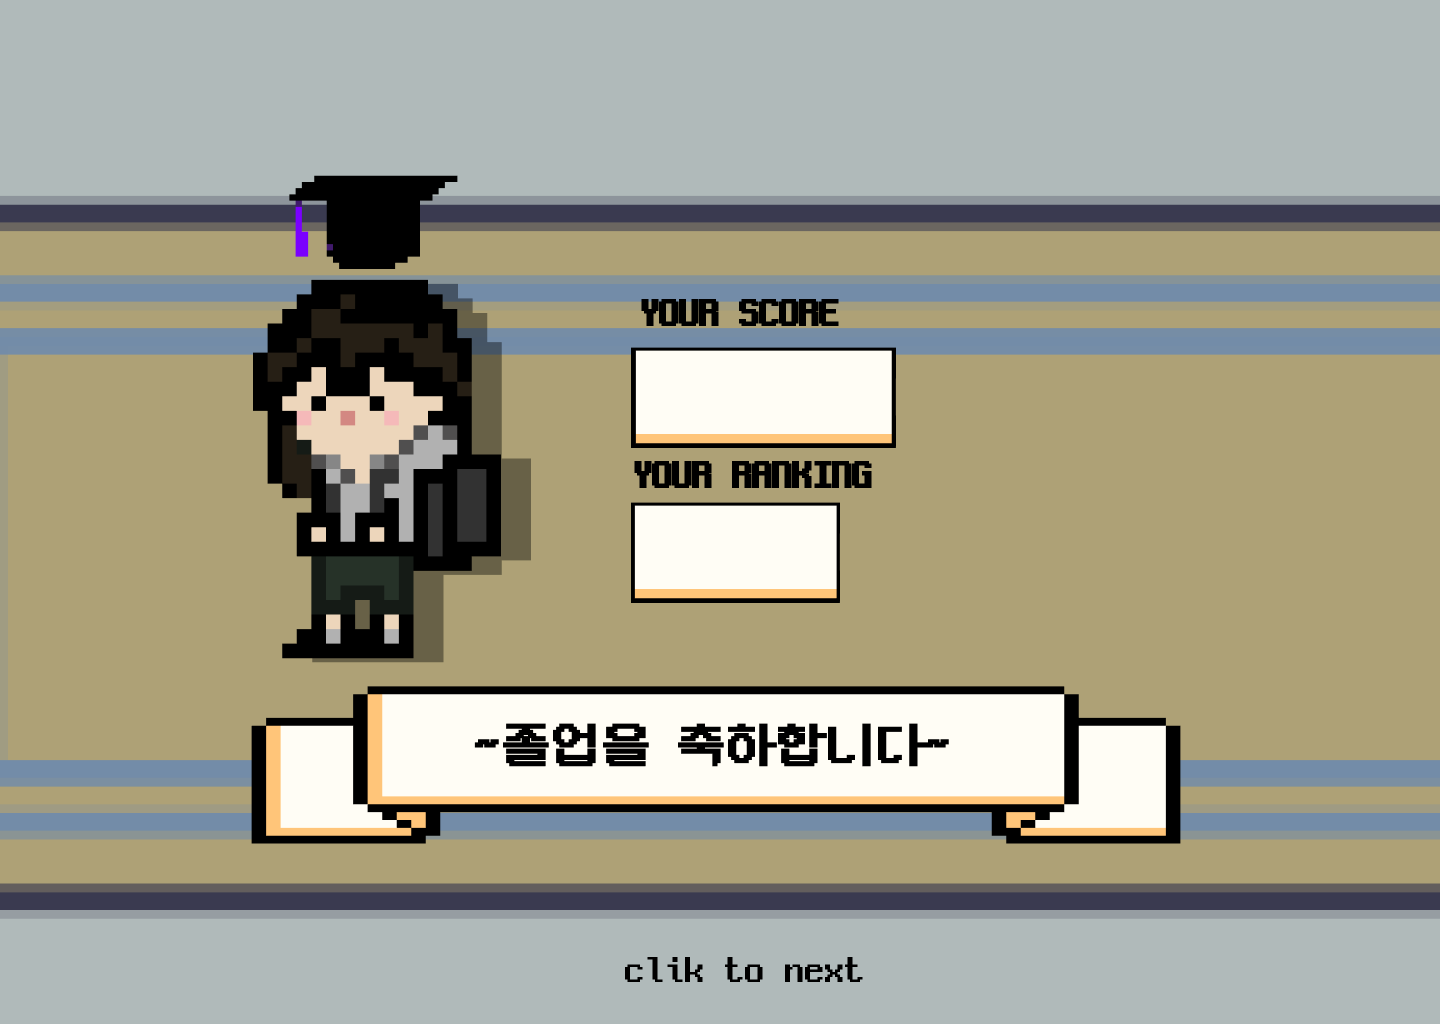
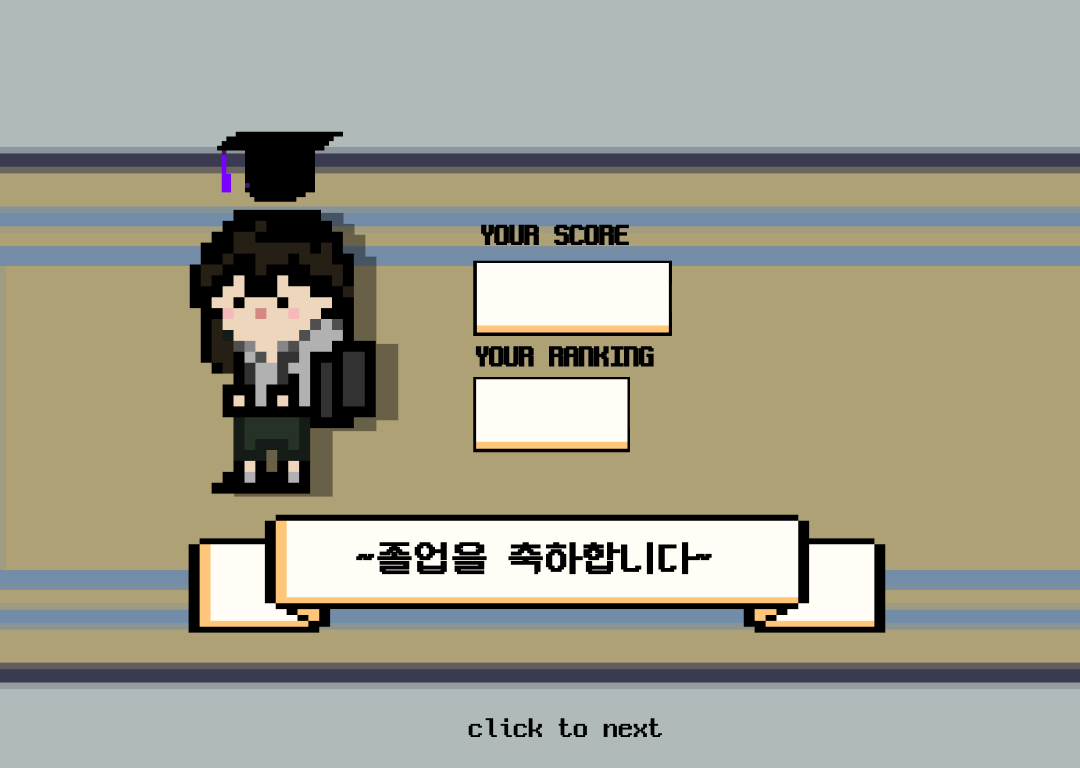
history 저장하고 ranking 반환

diff --git a/src/main/java/org/example/Manager/DatabaseManager.java b/src/main/java/org/example/Manager/DatabaseManager.java
@@ -1,18 +1,25 @@
 package org.example.Manager;
 
 import org.example.Security.HashUtil;
+import org.example.entity.GameResult;
 import org.example.entity.User;
 
 import java.sql.*;
+import java.time.LocalDate;
+import java.time.format.DateTimeFormatter;
+import java.util.ArrayList;
+import java.util.HashMap;
+import java.util.List;
+import java.util.Map;
 
 public class DatabaseManager {
     private static DatabaseManager instance;
     private String url = "jdbc:mysql://localhost:3306/game"; // 로컬 DB 주소
     private String user = "root"; // DB user
-    private String password = "password"; // DE password
+    private String password = "0428"; // DE password
 
     private DatabaseManager() {
-        createUserTable();
+        createTables();
     }
 
     public static synchronized DatabaseManager getInstance() {
@@ -22,20 +29,33 @@ public class DatabaseManager {
         return instance;
     }
 
-    private void createUserTable() {
-        String sql = "CREATE TABLE IF NOT EXISTS users ("
+    private void createTables() {
+        String userTableSql = "CREATE TABLE IF NOT EXISTS users ("
                 + "id INT AUTO_INCREMENT PRIMARY KEY,"
                 + "nickname VARCHAR(50) NOT NULL,"
                 + "password VARCHAR(255) NOT NULL"
                 + ");";
+
+        String historyTableSql = "CREATE TABLE IF NOT EXISTS history ("
+                + "id INT AUTO_INCREMENT PRIMARY KEY,"
+                + "userId INT NOT NULL,"
+                + "points INT NOT NULL,"
+                + "date DATETIME NOT NULL,"
+                + "FOREIGN KEY (userId) REFERENCES users(id)"
+                + ");";
+
         try (Connection conn = DriverManager.getConnection(url, user, password);
              Statement stmt = conn.createStatement()) {
-            stmt.execute(sql);
-            System.out.println("테이블 생성 성공");
+            stmt.execute(userTableSql);
+            System.out.println("users 테이블 생성 성공");
+
+            stmt.execute(historyTableSql);
+            System.out.println("history 테이블 생성 성공");
         } catch (SQLException e) {
             e.printStackTrace();
         }
     }
+
 
     public boolean signUp(String nickname, String password) {
         String hashedPassword = HashUtil.hashPassword(password);
@@ -67,6 +87,14 @@ public class DatabaseManager {
 
             if (rs.next()) {
                 System.out.println("로그인 성공");
+
+                // userId를 조회하여 User 객체 생성
+                int userId = rs.getInt("id");  // id (PRIMARY KEY)
+                User user = new User(userId, nickname, password);  // User 객체 생성
+
+                // 로그인한 유저 정보 저장
+                LoginManager.saveLoggedInUser(user);
+
                 return true;
             } else {
                 System.out.println("로그인 실패: 사용자 정보가 없습니다.");
@@ -113,4 +141,83 @@ public class DatabaseManager {
             return null;
         }
     }
+
+    public int saveScoreAndGetRank(GameResult gameResult, User user) {
+        String insertSql = "INSERT INTO history (userId, points, date) VALUES (?, ?, ?)";
+        String rankSql =
+                "WITH ranked_history AS (" +
+                        "    SELECT userId, points, RANK() OVER (ORDER BY points DESC) AS `rank` " +
+                        "    FROM history" +
+                        ") " +
+                        "SELECT `rank` FROM ranked_history WHERE userId = ? AND points = ? LIMIT 1";
+
+        int rank = -1;
+
+        try (Connection conn = DriverManager.getConnection(url, this.user, password)) {
+            // 게임 기록 저장
+            try (PreparedStatement insertStmt = conn.prepareStatement(insertSql)) {
+                insertStmt.setInt(1, user.getUserId());
+                insertStmt.setLong(2, gameResult.getPoints());
+
+                // 현재 날짜만 가져오기 (시간 없이)
+                String formattedDate = LocalDate.now().format(DateTimeFormatter.ofPattern("yyyy-MM-dd"));
+                insertStmt.setString(3, formattedDate);
+
+                int rowsInserted = insertStmt.executeUpdate();
+                if (rowsInserted > 0) {
+                    System.out.println("게임 기록이 성공적으로 저장되었습니다.");
+                } else {
+                    System.out.println("게임 기록 저장 실패.");
+                    return -1;
+                }
+            }
+
+            // 순위 조회
+            try (PreparedStatement rankStmt = conn.prepareStatement(rankSql)) {
+                rankStmt.setInt(1, user.getUserId());
+                rankStmt.setLong(2, gameResult.getPoints());
+
+                try (ResultSet rs = rankStmt.executeQuery()) {
+                    if (rs.next()) {
+                        rank = rs.getInt("rank");
+                    }
+                }
+
+                if (rank == -1) {
+                    System.out.println("순위를 가져오는 데 실패했습니다.");
+                } else {
+                    System.out.println("현재 순위: " + rank);
+                }
+            }
+        } catch (SQLException e) {
+            e.printStackTrace();
+            System.out.println("SQL 처리 중 오류 발생: " + e.getMessage());
+        }
+
+        return rank;
+    }
+
+
+    public List<Map<String, Object>> getRanking() {
+        String sql = "SELECT nickname, max_points FROM ranking_view";
+        List<Map<String, Object>> rankings = new ArrayList<>();
+
+        try (Connection conn = DriverManager.getConnection(url, this.user, this.password);
+             PreparedStatement pstmt = conn.prepareStatement(sql);
+             ResultSet rs = pstmt.executeQuery()) {
+
+            while (rs.next()) {
+                Map<String, Object> rank = new HashMap<>();
+                rank.put("nickname", rs.getString("nickname"));
+                rank.put("points", rs.getInt("max_points"));
+                rankings.add(rank);
+            }
+        } catch (SQLException e) {
+            e.printStackTrace();
+        }
+
+        return rankings;
+    }
+
+
 }

diff --git a/src/main/java/org/example/panels/StartPanel.java b/src/main/java/org/example/panels/StartPanel.java
@@ -5,12 +5,11 @@ import javax.swing.*;
 import java.awt.*;
 import java.awt.event.ActionEvent;
 import java.awt.event.ActionListener;
+import java.awt.event.HierarchyEvent;
 import java.io.File;
 import java.io.IOException;
 
 import org.example.Manager.*;
-import org.example.entity.Blanket;
-import org.example.entity.GameResult;
 import org.example.entity.User;
 
 public class StartPanel extends JPanel {
@@ -120,6 +119,16 @@ public class StartPanel extends JPanel {
         panel.add(bPanel);
         panel.add(characterPanel);
 
+        panel.addHierarchyListener(e -> {
+            if (e.getID() == HierarchyEvent.HIERARCHY_CHANGED) {
+                if (panel.isShowing()) {
+                    characterPanel.startCharacterMovement();  // 인트로 화면에 돌아왔을 때 이동 시작
+                } else {
+                    characterPanel.stopCharacterMovement();   // 다른 화면으로 갔을 때 이동 멈춤
+                }
+            }
+        });
+
         return panel;
     }
 
@@ -200,8 +209,7 @@ public class StartPanel extends JPanel {
                 boolean isSuccess = dbManager.signIn(dbManager, nick, pass);
 
                 if (isSuccess) {
-                    User user = new User(nick, pass);
-                    LoginManager.saveLoggedInUser(user);
+                    System.out.println(LoginManager.getLoggedInUser());
                     nickname.setText("");
                     password.setText("");
                     cardLayout.show(cardPanel, "intro");
@@ -348,6 +356,10 @@ public class StartPanel extends JPanel {
     //첫 화면에 캐릭터 도동하고 싶어서 이미지 따로 빼놓음
     static class CharacterPanel extends JPanel {
         private Image characterImage;
+        private int xPosition = 0;
+        private int yPosition = 0;
+        private boolean moveUpRight = true;
+        private Timer movementTimer;
 
         public CharacterPanel(String imagePath) {
             try {
@@ -356,16 +368,44 @@ public class StartPanel extends JPanel {
                 e.printStackTrace();
             }
             setOpaque(false);
+
+
+            movementTimer = new Timer(500, e -> moveCharacter());
+        }
+
+        private void moveCharacter() {
+            if (moveUpRight) {
+                xPosition -= 10;
+                yPosition -= 10;
+            } else {
+                xPosition += 10;
+                yPosition += 10;
+            }
+
+            moveUpRight = !moveUpRight;
+
+            repaint();
+        }
+
+        public void startCharacterMovement() {
+            if (!movementTimer.isRunning()) {
+                movementTimer.start();
+            }
+        }
+
+        public void stopCharacterMovement() {
+            if (movementTimer.isRunning()) {
+                movementTimer.stop();
+            }
         }
 
         @Override
         protected void paintComponent(Graphics g) {
             super.paintComponent(g);
             if (characterImage != null) {
-                g.drawImage(characterImage, 0, 0, 410, 425, this);
+                g.drawImage(characterImage, xPosition, yPosition, 410, 425, this);
             }
         }
     }
-
 
 }

diff --git a/src/main/java/org/example/panels/EndPanel.java b/src/main/java/org/example/panels/EndPanel.java
@@ -2,9 +2,7 @@ package org.example.panels;
 
 import javax.swing.*;
 
-import lombok.Setter;
 import org.example.Manager.*;
-import org.example.entity.Blanket;
 import org.example.entity.GameResult;
 
 import java.awt.*;
@@ -12,6 +10,7 @@ import java.awt.event.ActionEvent;
 import java.awt.event.ActionListener;
 
 public class EndPanel extends JPanel {
+    private DatabaseManager dbManager = DatabaseManager.getInstance();
     private CardLayout cardLayout;
     private JPanel cardPanel; // 패널들을 담을 메인 패널
     private JPanel graduationCardPanel; // graduationPanel의 내부 CardLayout 패널
@@ -137,9 +136,11 @@ public class EndPanel extends JPanel {
 
         // 점수 띄우기
         score.setText(gameResult.getPoints()+"");
-        // 랭킹 띄우기 (not yet)
+        // 랭킹 띄우기
+        int rank = dbManager.saveScoreAndGetRank(gameResult, LoginManager.getLoggedInUser());
+        ranking.setText(String.valueOf(rank));
 
-        // 3초 후에 점수 띄우는 화면으로 전환
+        // 축하 화면에서 3초 후에 점수 띄우는 화면으로 전환
         Timer timer = new Timer(1500, new ActionListener() {
             @Override
             public void actionPerformed(ActionEvent e) {

diff --git a/src/main/java/org/example/Manager/GameManager.java b/src/main/java/org/example/Manager/GameManager.java
@@ -65,6 +65,7 @@ public class GameManager extends JFrame {
     pointsManager = new PointsManager();
     gamePanel = new GamePanel(pointsManager);
     bonusPanel = new BonusPanel(pointsManager);
+    endPanel = new EndPanel(this);
 
     //이부분 수정했어엽 민선아
     levelupPanel = new LevelUpPanel();
@@ -73,7 +74,7 @@ public class GameManager extends JFrame {
     starPanel = new StarPanel(this);
     starCrash = new StarCrash(this, starPanel);
     rainbowPanel = new RainbowPanel();
-    endPanel = new EndPanel(this);
+
     // 각 화면을 패널로 추가
     mainPanel.add(new StartPanel(this), "start");
     mainPanel.add(gamePanel, "game");

diff --git a/src/main/java/org/example/entity/User.java b/src/main/java/org/example/entity/User.java
@@ -1,12 +1,24 @@
 package org.example.entity;
 
 public class User {
+    private Integer userId;
     private String nickname;
     private String password;
+
 
     public User(String nickname, String password) {
         this.nickname = nickname;
         this.password = password;
+    }
+
+    public User(int id, String nickname, String password) {
+        this.userId = id;
+        this.nickname = nickname;
+        this.password = password;
+    }
+
+    public Integer getUserId() {
+        return userId;
     }
 
     public String getNickname() {
